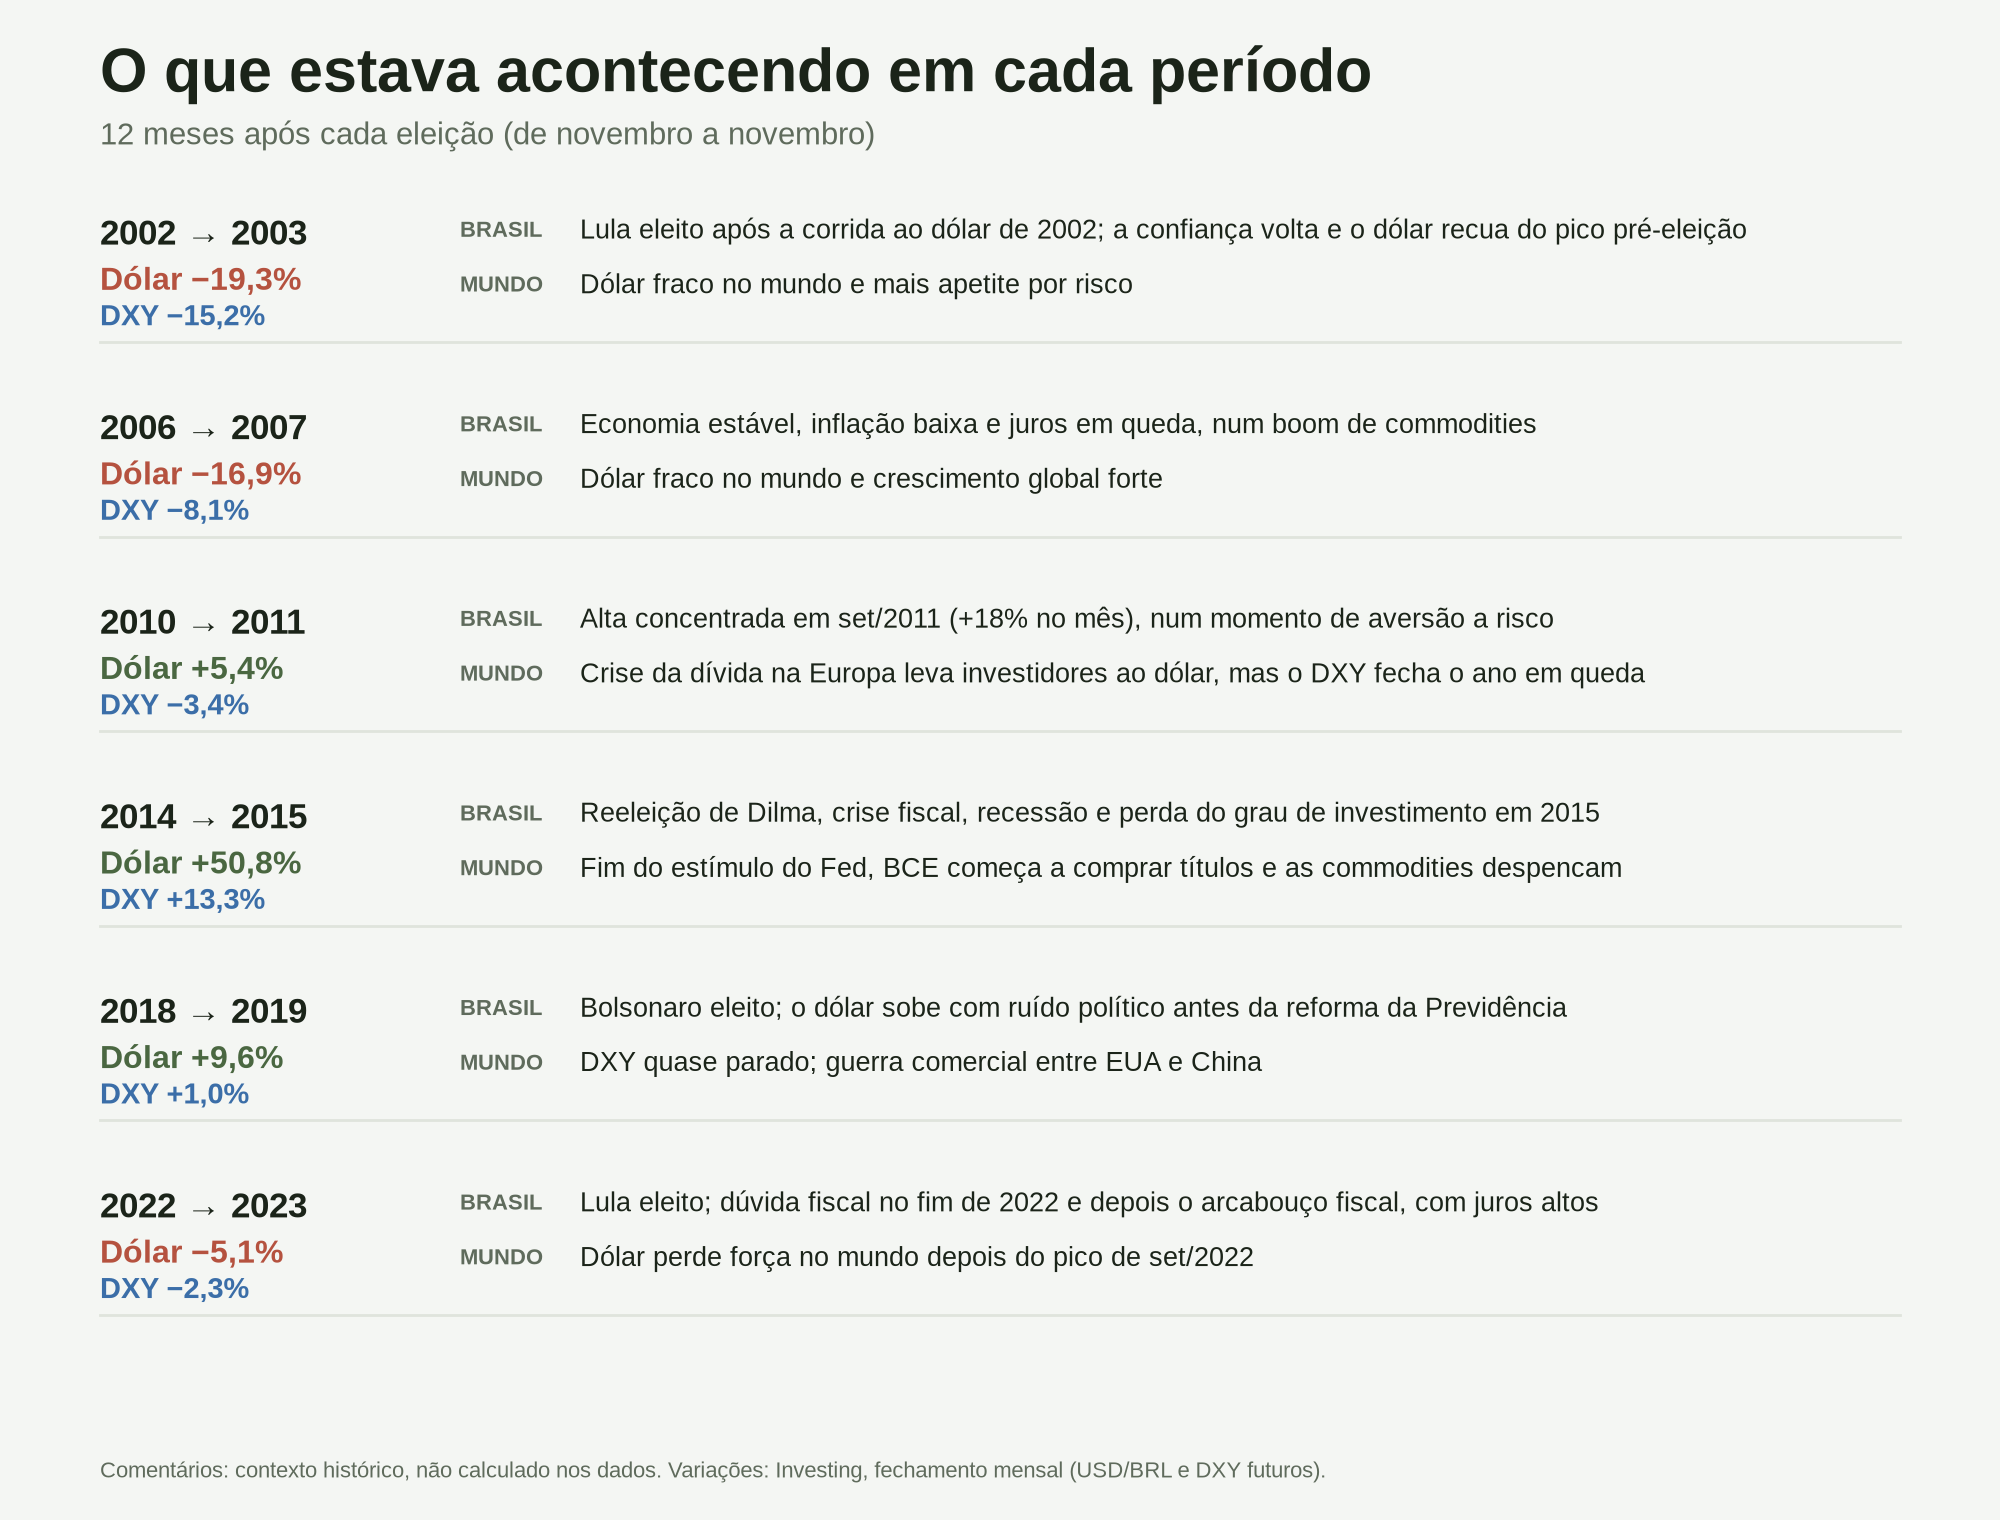
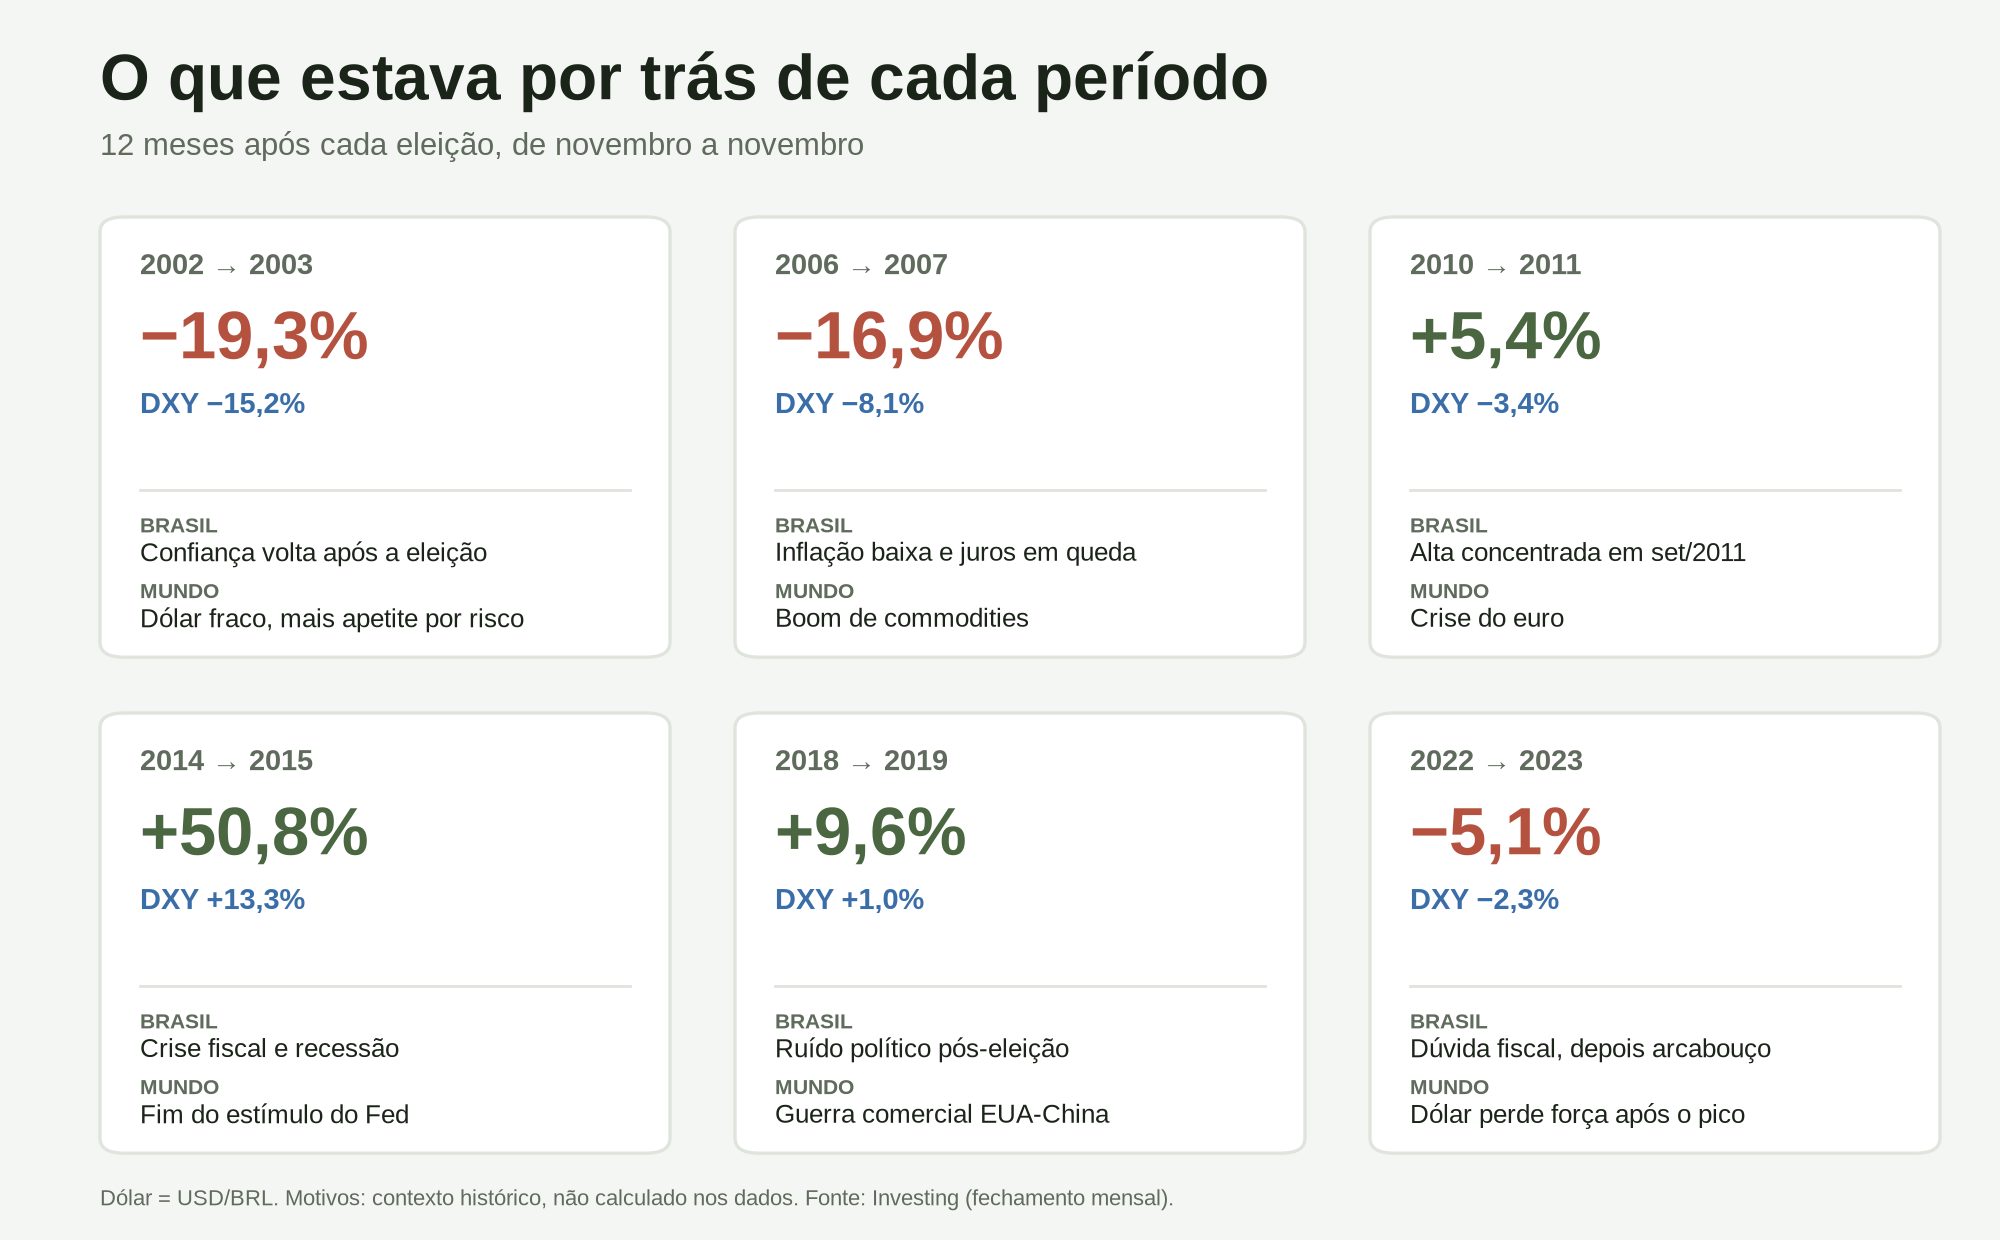
Refaz comentários por período em cartões curtos
Claude-Session: https://claude.ai/code/session_0199Y78iJYXbJq94ojXAjU9F

diff --git a/bloco1_comentarios_e_dxy.py b/bloco1_comentarios_e_dxy.py
@@ -26,35 +26,33 @@ plt.rcParams["font.family"] = "Liberation Sans" if any("Liberation Sans" in f.na
 rot = lambda v: f"{v:+.1f}%".replace(".", ",").replace("-", "−")
 cor = lambda v: UP if v > 0 else DOWN
 
-# ------------------------------------------------------------------ (a) comentários
-COM = {2002: ("Lula eleito após a corrida ao dólar de 2002; a confiança volta e o dólar recua do pico pré-eleição",
-              "Dólar fraco no mundo e mais apetite por risco"),
-       2006: ("Economia estável, inflação baixa e juros em queda, num boom de commodities",
-              "Dólar fraco no mundo e crescimento global forte"),
-       2010: ("Alta concentrada em set/2011 (+18% no mês), num momento de aversão a risco",
-              "Crise da dívida na Europa leva investidores ao dólar, mas o DXY fecha o ano em queda"),
-       2014: ("Reeleição de Dilma, crise fiscal, recessão e perda do grau de investimento em 2015",
-              "Fim do estímulo do Fed, BCE começa a comprar títulos e as commodities despencam"),
-       2018: ("Bolsonaro eleito; o dólar sobe com ruído político antes da reforma da Previdência",
-              "DXY quase parado; guerra comercial entre EUA e China"),
-       2022: ("Lula eleito; dúvida fiscal no fim de 2022 e depois o arcabouço fiscal, com juros altos",
-              "Dólar perde força no mundo depois do pico de set/2022")}
-fig = plt.figure(figsize=(10, 7.6), dpi=200, facecolor=BG)
-fig.text(.05, .94, "O que estava acontecendo em cada período", color=INK, fontsize=22, fontweight="bold")
-fig.text(.05, .905, "12 meses após cada eleição (de novembro a novembro)", color=MUTED, fontsize=11)
-y = .845
-for e in ELE:
-    br, mu = COM[e]
-    fig.text(.05, y, f"{e} → {e+1}", color=INK, fontsize=12.5, fontweight="bold", va="center")
-    fig.text(.05, y - .030, f"Dólar {rot(vb[e])}", color=cor(vb[e]), fontsize=11.5, fontweight="bold", va="center")
-    fig.text(.05, y - .054, f"DXY {rot(vd[e])}", color=BLUE, fontsize=10.5, fontweight="bold", va="center")
-    fig.text(.23, y + .003, "BRASIL", color=MUTED, fontsize=8, fontweight="bold", va="center")
-    fig.text(.29, y + .003, br, color=INK, fontsize=9.6, va="center")
-    fig.text(.23, y - .033, "MUNDO", color=MUTED, fontsize=8, fontweight="bold", va="center")
-    fig.text(.29, y - .033, mu, color=INK, fontsize=9.6, va="center")
-    fig.add_artist(plt.Line2D([.05, .95], [y - .070, y - .070], color=GRID, lw=1))
-    y -= .128
-fig.text(.05, .028, "Comentários: contexto histórico, não calculado nos dados. Variações: Investing, fechamento mensal (USD/BRL e DXY futuros).", color=MUTED, fontsize=8)
+# ------------------------------------------------------------------ (a) comentários (cartões curtos)
+from matplotlib.patches import FancyBboxPatch
+TAGS = {2002: ("Confiança volta após a eleição", "Dólar fraco, mais apetite por risco"),
+        2006: ("Inflação baixa e juros em queda", "Boom de commodities"),
+        2010: ("Alta concentrada em set/2011", "Crise do euro"),
+        2014: ("Crise fiscal e recessão", "Fim do estímulo do Fed"),
+        2018: ("Ruído político pós-eleição", "Guerra comercial EUA-China"),
+        2022: ("Dúvida fiscal, depois arcabouço", "Dólar perde força após o pico")}
+fig = plt.figure(figsize=(10, 6.2), dpi=200, facecolor=BG)
+fig.text(.05, .92, "O que estava por trás de cada período", color=INK, fontsize=23, fontweight="bold")
+fig.text(.05, .875, "12 meses após cada eleição, de novembro a novembro", color=MUTED, fontsize=11)
+W, H, GX, GY = .285, .355, .0325, .045
+for i, e in enumerate(ELE):
+    col, row = i % 3, i // 3
+    x0 = .05 + col * (W + GX); y0 = .47 - row * (H + GY)
+    fig.add_artist(FancyBboxPatch((x0, y0), W, H, boxstyle="round,pad=0,rounding_size=.012", transform=fig.transFigure,
+                                  fc="white", ec=GRID, lw=1.2))
+    fig.text(x0 + .02, y0 + H - .04, f"{e} → {e+1}", color=MUTED, fontsize=10.5, fontweight="bold", va="center")
+    fig.text(x0 + .02, y0 + H - .10, rot(vb[e]), color=cor(vb[e]), fontsize=24, fontweight="bold", va="center")
+    fig.text(x0 + .02, y0 + H - .152, f"DXY {rot(vd[e])}", color=BLUE, fontsize=10.5, fontweight="bold", va="center")
+    fig.add_artist(plt.Line2D([x0 + .02, x0 + W - .02], [y0 + .135, y0 + .135], color=GRID, lw=1))
+    br, mu = TAGS[e]
+    fig.text(x0 + .02, y0 + .105, "BRASIL", color=MUTED, fontsize=7.5, fontweight="bold", va="center")
+    fig.text(x0 + .02, y0 + .083, br, color=INK, fontsize=9.3, va="center")
+    fig.text(x0 + .02, y0 + .052, "MUNDO", color=MUTED, fontsize=7.5, fontweight="bold", va="center")
+    fig.text(x0 + .02, y0 + .030, mu, color=INK, fontsize=9.3, va="center")
+fig.text(.05, .028, "Dólar = USD/BRL. Motivos: contexto histórico, não calculado nos dados. Fonte: Investing (fechamento mensal).", color=MUTED, fontsize=8)
 fig.savefig("bloco1_comentarios_periodos.png", facecolor=BG); plt.close(fig)
 
 # ------------------------------------------------------------------ (b) aqui x mundo
